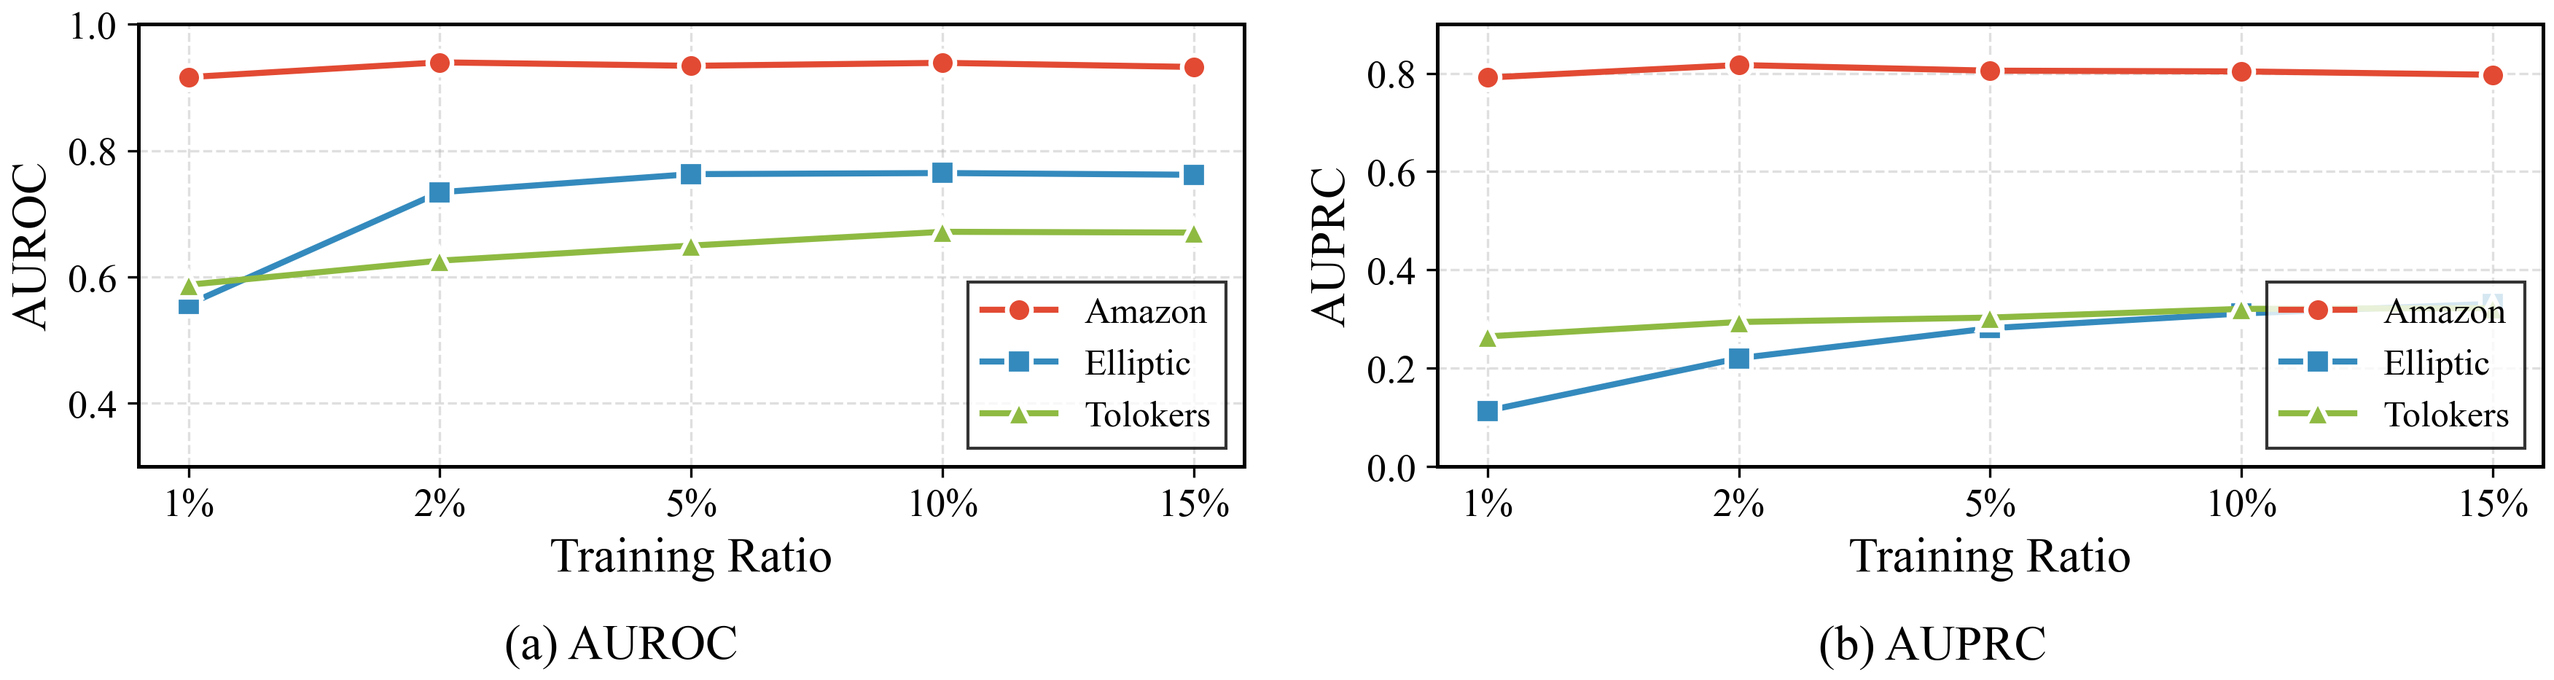
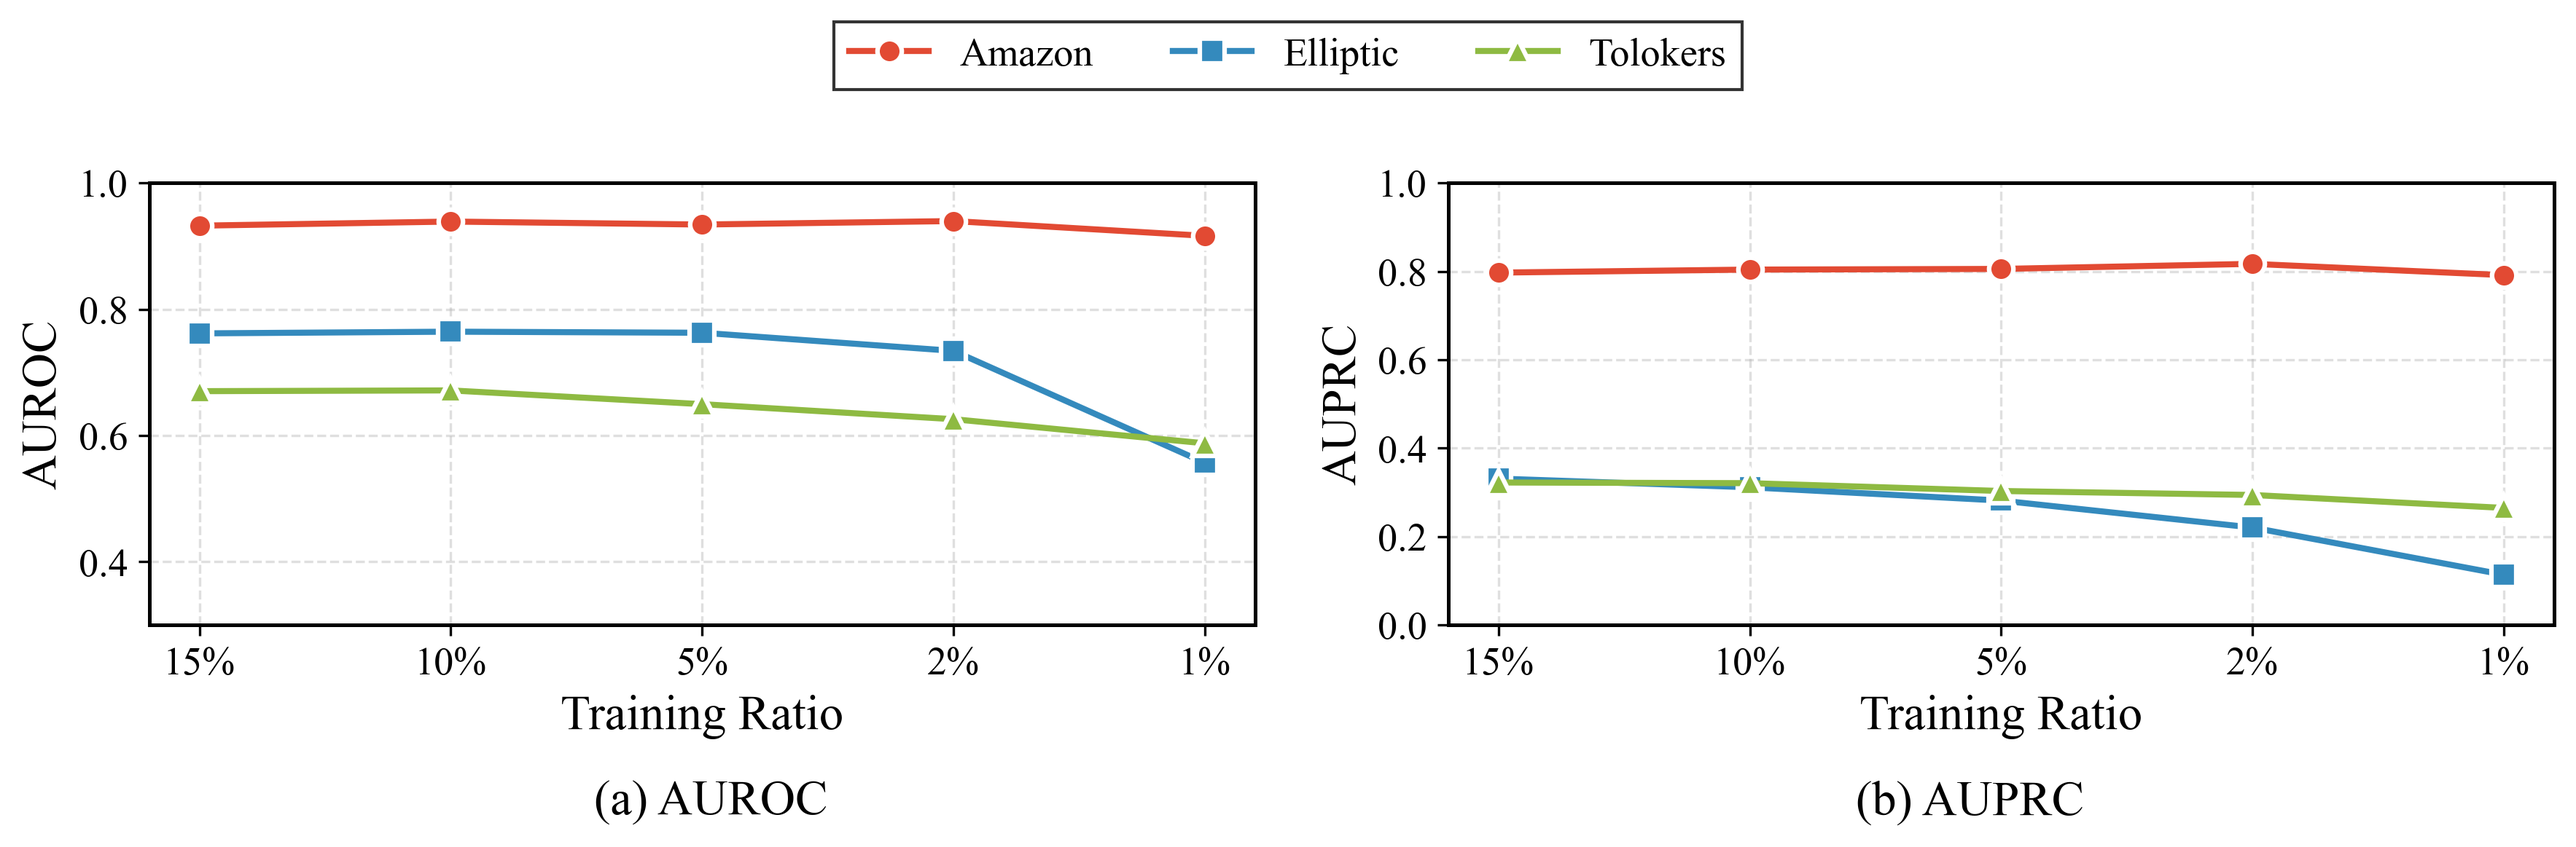
figs: update training_ratio figure

diff --git a/figs/train_ratio/training_ratio.py b/figs/train_ratio/training_ratio.py
@@ -1,93 +1,100 @@
-import matplotlib.pyplot as plt
-import numpy as np
+import matplotlib.pyplot as plt  
+import numpy as np  
+  
+# 设置全局字体和样式（KDD风格）  
+plt.rcParams.update({  
+    'font.family': 'serif',  
+    'font.serif': ['Times New Roman'],  
+    'font.size': 14,  
+    'axes.labelsize': 16,  
+    'axes.titlesize': 16,  
+    'xtick.labelsize': 13,  
+    'ytick.labelsize': 13,  
+    'legend.fontsize': 13,  # 稍微调大一点图例字号
+    'figure.dpi': 300,  
+    'savefig.dpi': 300,  
+    'axes.linewidth': 1.2,  
+    'lines.linewidth': 2,  
+    'lines.markersize': 8,  
+})  
+  
+# 数据  
+train_ratios = [15, 10, 5, 2, 1]    
+x_labels = ['15%', '10%', '5%', '2%', '1%']    
+    
+data = {    
+    'Amazon': {    
+        'AUROC': [0.9323, 0.9388, 0.9341, 0.9396, 0.9162],    
+        'AUPRC': [0.7971, 0.8039, 0.8054, 0.8169, 0.7914]    
+    },    
+    'Elliptic': {    
+        'AUROC': [0.7617, 0.7644, 0.7627, 0.734, 0.5567],    
+        'AUPRC': [0.331, 0.3114, 0.2813, 0.2203, 0.1135]    
+    },    
+    'Tolokers': {    
+        'AUROC': [0.6702, 0.6714, 0.6496, 0.6258, 0.5876],    
+        'AUPRC': [0.3222, 0.3207, 0.303, 0.294, 0.2647]    
+    }    
+}  
+  
+# KDD风格的颜色和标记  
+colors = ['#E24A33', '#348ABD', '#8EBA42']  
+markers = ['o', 's', '^']  
+linestyles = ['-', '-', '-']  
+  
+# 创建图形
+fig, axes = plt.subplots(1, 2, figsize=(12, 4)) # 高度稍微增加一点给图例留空间
+  
+# 绘制 AUROC 子图  
+ax1 = axes[0]  
+ax1.set_box_aspect(0.4)  
+lines = [] # 用于存储绘图对象以生成统一图例
+for idx, (dataset, values) in enumerate(data.items()):  
+    line, = ax1.plot(range(len(train_ratios)), values['AUROC'],   
+             color=colors[idx], marker=markers[idx],   
+             linestyle=linestyles[idx], label=dataset,  
+             markeredgecolor='white', markeredgewidth=1.5)  
+    lines.append(line)
+  
+ax1.set_xlabel('Training Ratio')  
+ax1.set_ylabel('AUROC')  
+ax1.set_xticks(range(len(train_ratios)))  
+ax1.set_xticklabels(x_labels)  
+ax1.set_ylim([0.3, 1.0])  
+ax1.grid(True, linestyle='--', alpha=0.4, linewidth=0.8)  
+  
+# 绘制 AUPRC 子图  
+ax2 = axes[1]  
+ax2.set_box_aspect(0.4)  
+for idx, (dataset, values) in enumerate(data.items()):  
+    ax2.plot(range(len(train_ratios)), values['AUPRC'],   
+             color=colors[idx], marker=markers[idx],   
+             linestyle=linestyles[idx], label=dataset,  
+             markeredgecolor='white', markeredgewidth=1.5)  
+  
+ax2.set_xlabel('Training Ratio')  
+ax2.set_ylabel('AUPRC')  
+ax2.set_xticks(range(len(train_ratios)))  
+ax2.set_xticklabels(x_labels)  
+ax2.set_ylim([0.0, 1.0]) # 统一刻度上限让视觉更平衡
+ax2.grid(True, linestyle='--', alpha=0.4, linewidth=0.8)  
+  
+# --- 统一图例设置 ---
+# ncol=3 表示水平排列三列，bbox_to_anchor 用于精确定位
+fig.legend(handles=lines, labels=data.keys(), 
+           loc='upper center', ncol=3, 
+           frameon=True, edgecolor='black', fancybox=False,
+           bbox_to_anchor=(0.5, 0.98)) 
 
-# 设置全局字体和样式（KDD风格）
-plt.rcParams.update({
-    'font.family': 'serif',
-    'font.serif': ['Times New Roman'],
-    'font.size': 14,
-    'axes.labelsize': 16,
-    'axes.titlesize': 16,
-    'xtick.labelsize': 13,
-    'ytick.labelsize': 13,
-    'legend.fontsize': 12,
-    'figure.dpi': 300,
-    'savefig.dpi': 300,
-    'axes.linewidth': 1.2,
-    'lines.linewidth': 2,
-    'lines.markersize': 8,
-})
-
-# 数据
-train_ratios = [1, 2, 5, 10, 15]
-x_labels = ['1%', '2%', '5%', '10%', '15%']
-
-data = {
-    'Amazon': {
-        'AUROC': [0.9162, 0.9396, 0.9341, 0.9388, 0.9323],
-        'AUPRC': [0.7914, 0.8169, 0.8054, 0.8039, 0.7971]
-    },
-    'Elliptic': {
-        'AUROC': [0.5567, 0.734, 0.7627, 0.7644, 0.7617],
-        'AUPRC': [0.1135, 0.2203, 0.2813, 0.3114, 0.331]
-    },
-    'Tolokers': {
-        'AUROC': [0.5876, 0.6258, 0.6496, 0.6714, 0.6702],
-        'AUPRC': [0.2647, 0.294, 0.303, 0.3207, 0.3222]
-    }
-}
-
-# KDD风格的颜色和标记
-colors = ['#E24A33', '#348ABD', '#8EBA42']  # 红、蓝、绿
-markers = ['o', 's', '^']  # 圆、方、三角
-linestyles = ['-', '-', '-']
-
-# 创建图形 (两个子图: AUROC 和 AUPRC)
-fig, axes = plt.subplots(1, 2, figsize=(12, 3.5))
-
-# 绘制 AUROC 子图
-ax1 = axes[0]
-ax1.set_box_aspect(0.4)
-for idx, (dataset, values) in enumerate(data.items()):
-    ax1.plot(range(len(train_ratios)), values['AUROC'], 
-             color=colors[idx], marker=markers[idx], 
-             linestyle=linestyles[idx], label=dataset,
-             markeredgecolor='white', markeredgewidth=1.5)
-
-ax1.set_xlabel('Training Ratio')
-ax1.set_ylabel('AUROC')
-ax1.set_xticks(range(len(train_ratios)))
-ax1.set_xticklabels(x_labels)
-ax1.set_ylim([0.3, 1.0])
-ax1.legend(loc='lower right', frameon=True, edgecolor='black', fancybox=False)
-ax1.grid(True, linestyle='--', alpha=0.4, linewidth=0.8)
-fig.text(0.25, 0.02, '(a) AUROC', ha='center', fontsize=16)
-
-# 绘制 AUPRC 子图
-ax2 = axes[1]
-ax2.set_box_aspect(0.4)
-for idx, (dataset, values) in enumerate(data.items()):
-    ax2.plot(range(len(train_ratios)), values['AUPRC'], 
-             color=colors[idx], marker=markers[idx], 
-             linestyle=linestyles[idx], label=dataset,
-             markeredgecolor='white', markeredgewidth=1.5)
-
-ax2.set_xlabel('Training Ratio')
-ax2.set_ylabel('AUPRC')
-ax2.set_xticks(range(len(train_ratios)))
-ax2.set_xticklabels(x_labels)
-ax2.set_ylim([0.0, 0.9])
-ax2.legend(loc='lower right', frameon=True, edgecolor='black', fancybox=False)
-ax2.grid(True, linestyle='--', alpha=0.4, linewidth=0.8)
-fig.text(0.75, 0.02, '(b) AUPRC', ha='center', fontsize=16)
-
-# 调整布局
-plt.tight_layout()
-plt.subplots_adjust(bottom=0.18)
-
-# 保存为PDF
-plt.savefig('training_ratio.pdf', format='pdf', bbox_inches='tight', pad_inches=0.05)
-plt.savefig('training_ratio.png', format='png', bbox_inches='tight', pad_inches=0.05)
-
-print("图表已保存为 training_ratio_analysis.pdf")
+# 设置子标题 (a) 和 (b)
+fig.text(0.28, 0.05, '(a) AUROC', ha='center', fontsize=16)  
+fig.text(0.76, 0.05, '(b) AUPRC', ha='center', fontsize=16)  
+  
+# 调整布局：使用 subplots_adjust 给顶部图例和底部标题留出空间
+plt.tight_layout()  
+plt.subplots_adjust(top=0.82, bottom=0.22)  
+  
+# 保存
+plt.savefig('training_ratio.pdf', format='pdf', bbox_inches='tight')  
+plt.savefig('training_ratio.png', format='png', bbox_inches='tight')  
 plt.show()
